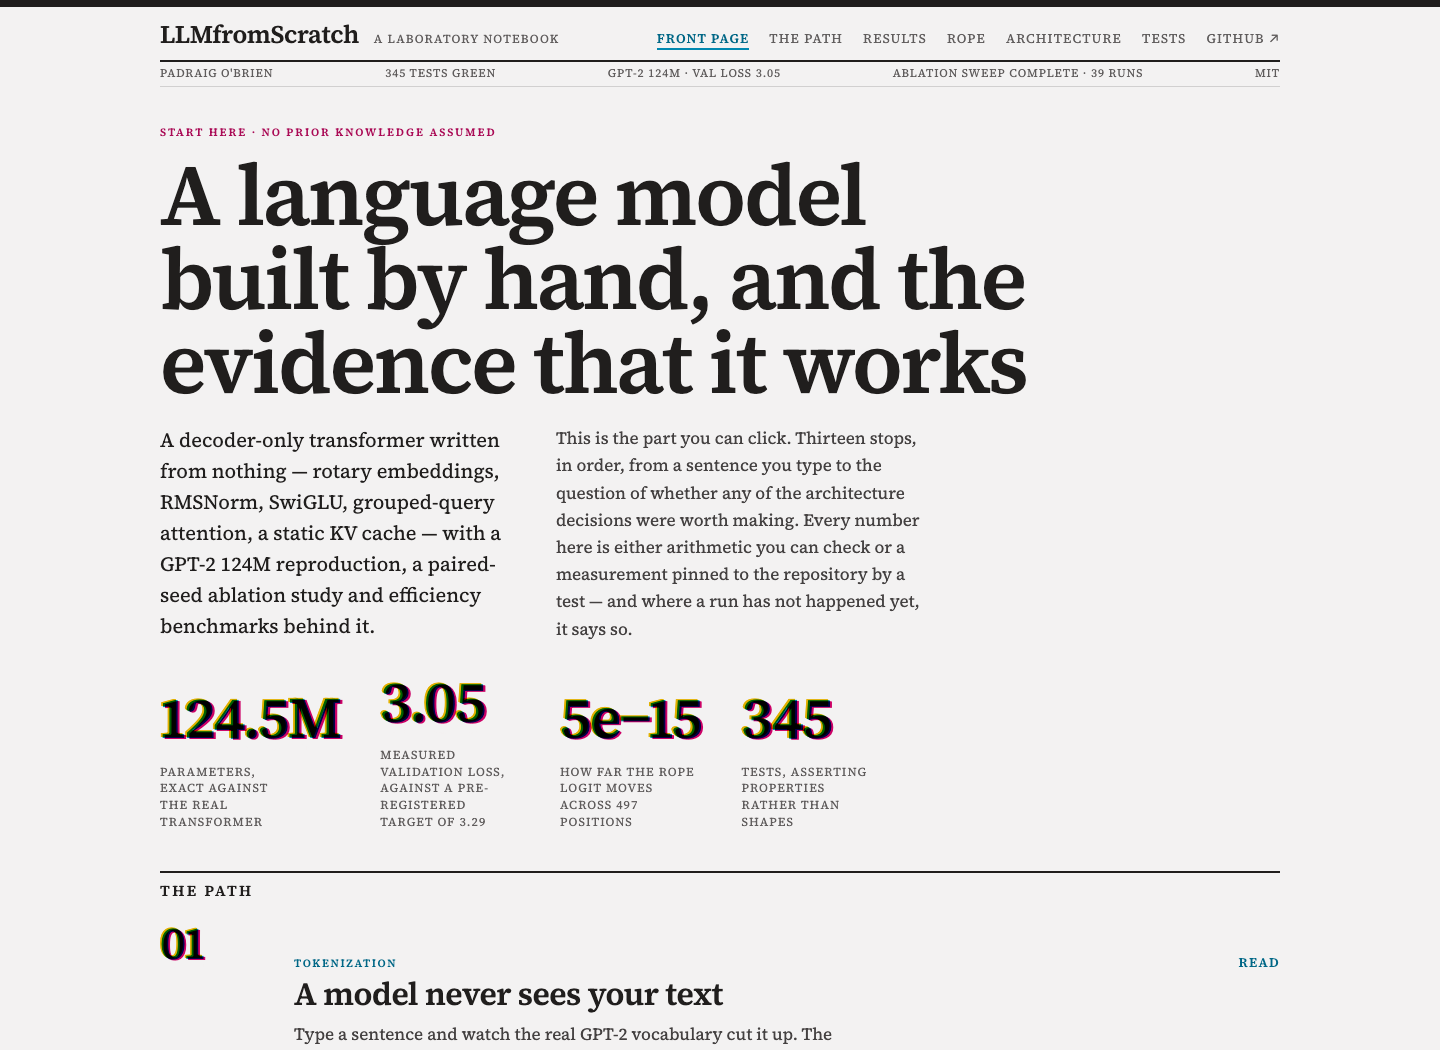
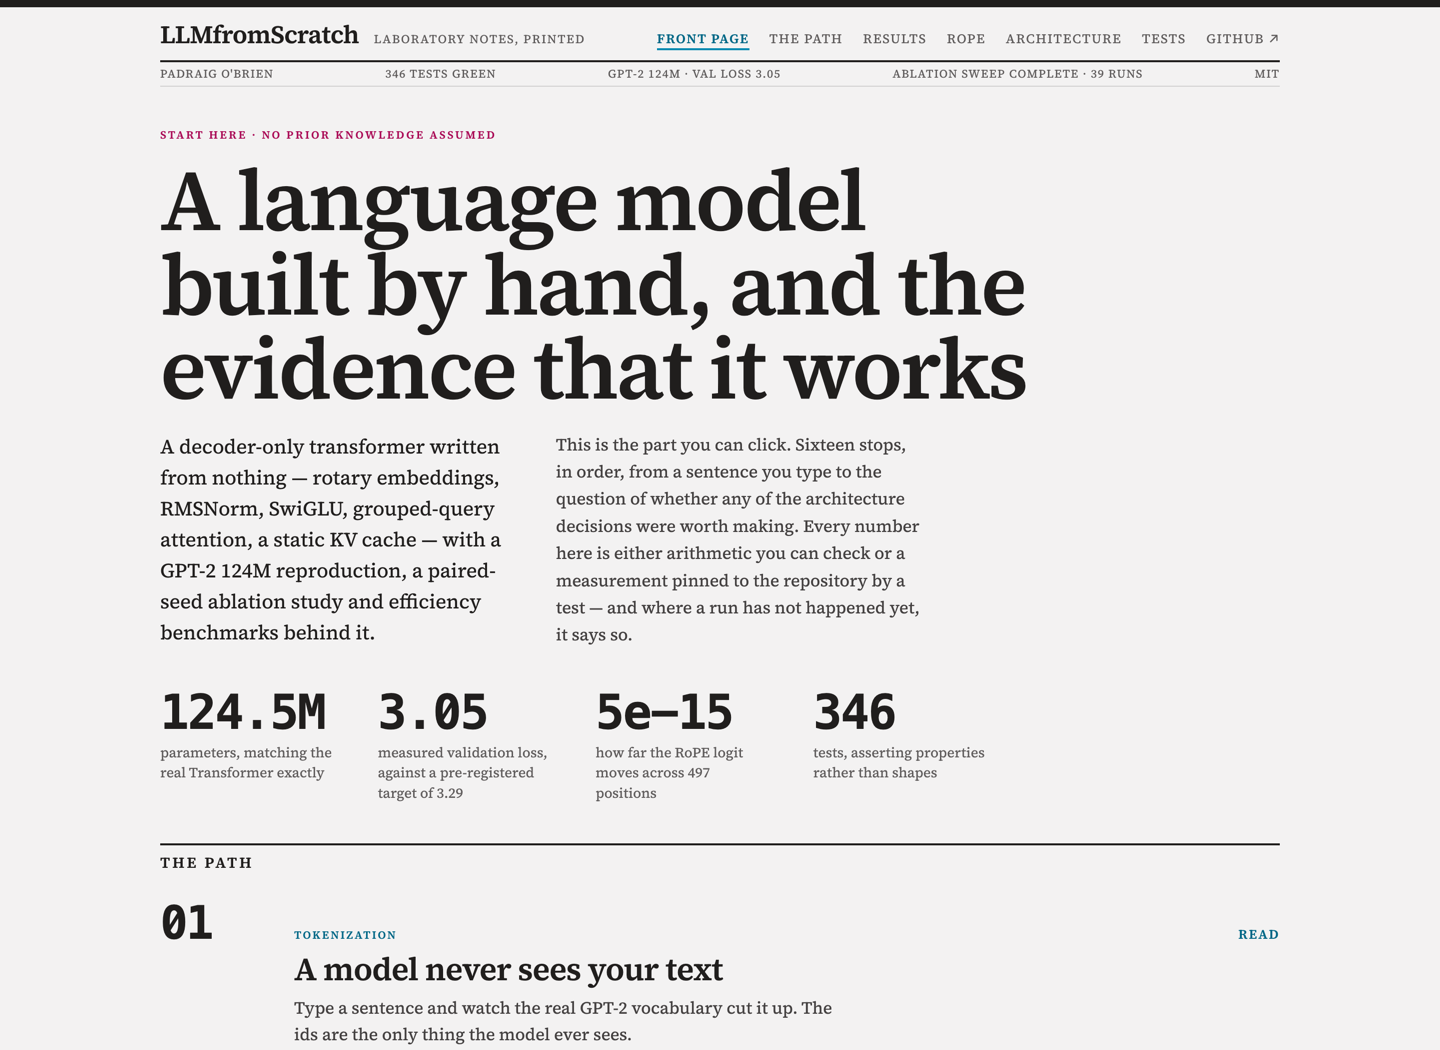
Re-shoot the front page, and cut a card for the preview slot
The README's hero was taken before today and every claim in it has since
changed: it says "A laboratory notebook", "Thirteen stops" over sixteen,
345 tests, sets the figure captions as tracked all-caps and prints the
numerals as misregistered plates. A screenshot of a page that no longer
exists is worse than none on a repository whose thesis is that the site is
the evidence.

Both images are captured from the deployed site at twice the size and
scaled down — text scaled down from 2x stays crisp where a 1x grab goes
soft, which costs 137 KB on the hero and is worth it.

The hero keeps its 1440x1050 exactly, so the README's layout does not move.

The social preview gets its own file rather than reusing the hero. They
want different shapes: the card slot is 2:1 and would crop a third off the
top and bottom of a 1440x1050, and a hero cut to 2:1 would show a third of
what the README shows now. A straight 1280x640 grab also cut the figures
off below the fold, so the card is shot at 1600x800 — same ratio, more
page — and scaled down: masthead, headline, standfirst and all four
figures, which are the argument.

The roadmap said to upload the hero. That was right when it was the only
image and wrong the moment there were two, so it now names the card and
says not to use the hero.

diff --git a/docs/roadmap.md b/docs/roadmap.md
@@ -173,11 +173,14 @@ per unit of effort and the first of these would take the top of it on that measu
 say something false about what this roadmap is for.
 
 **The GitHub social preview is not set.** Settings → General → Social preview, uploading
-[docs/images/front-page.png](images/front-page.png), which is already committed. It cannot be
-done from a shell or a workflow — the field is web UI only, which is the whole reason it is
-still outstanding. Until it is done, every link to this repository unfurls as a grey
-placeholder rather than as the front page, on a repository whose argument is that the front
-page is the work.
+[docs/images/social-preview.png](images/social-preview.png), which is already committed and
+cut for the slot: 1280×640, the 2:1 the card wants, taken from the deployed page at twice the
+size and scaled down so the type survives. Do not upload the README's hero instead — it is
+1440×1050, and GitHub would crop a third off the top and bottom. This cannot be done from a
+shell or a workflow; the field is web UI only, which is the whole reason it is still
+outstanding. Until it is done, every link to this repository unfurls as a grey placeholder
+rather than as the front page, on a repository whose argument is that the front page is the
+work.
 
 **The front page fetches the ablation sweep to decide what not to draw.** `Front.tsx` requests
 `data/ablations.json` — 7,681 bytes gzipped, 52.5 KB raw — on every visit, purely to learn
